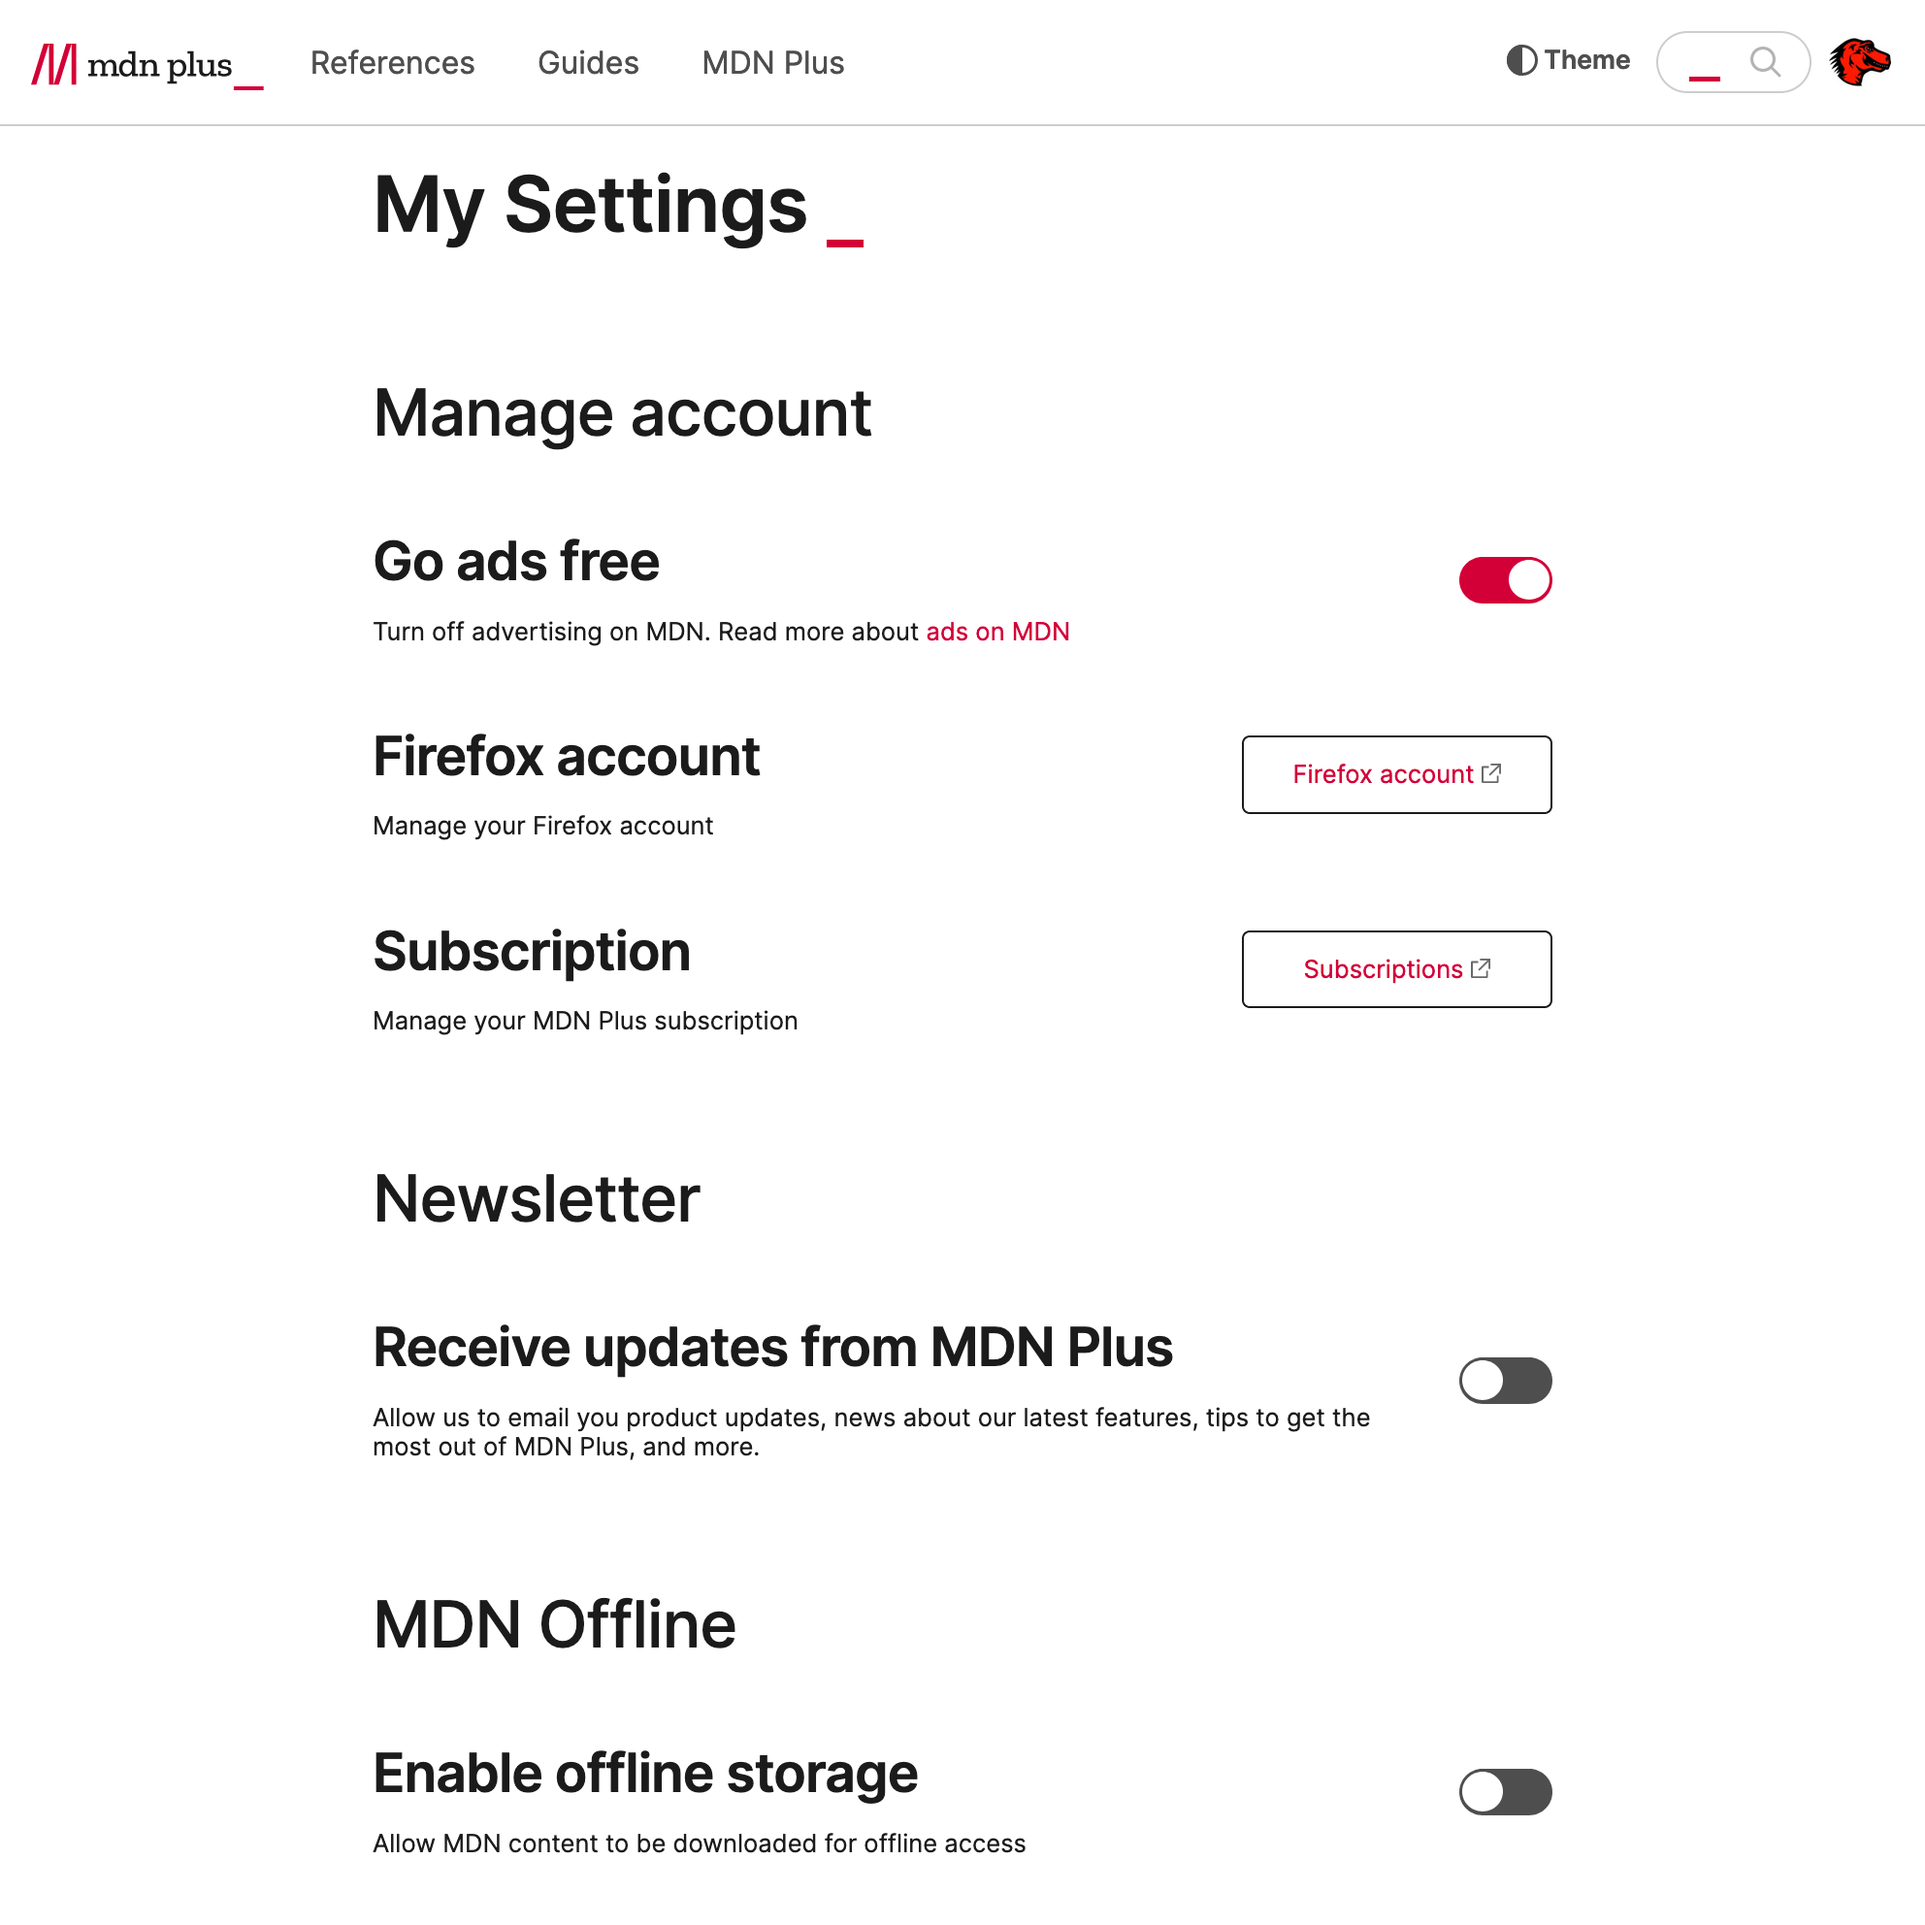
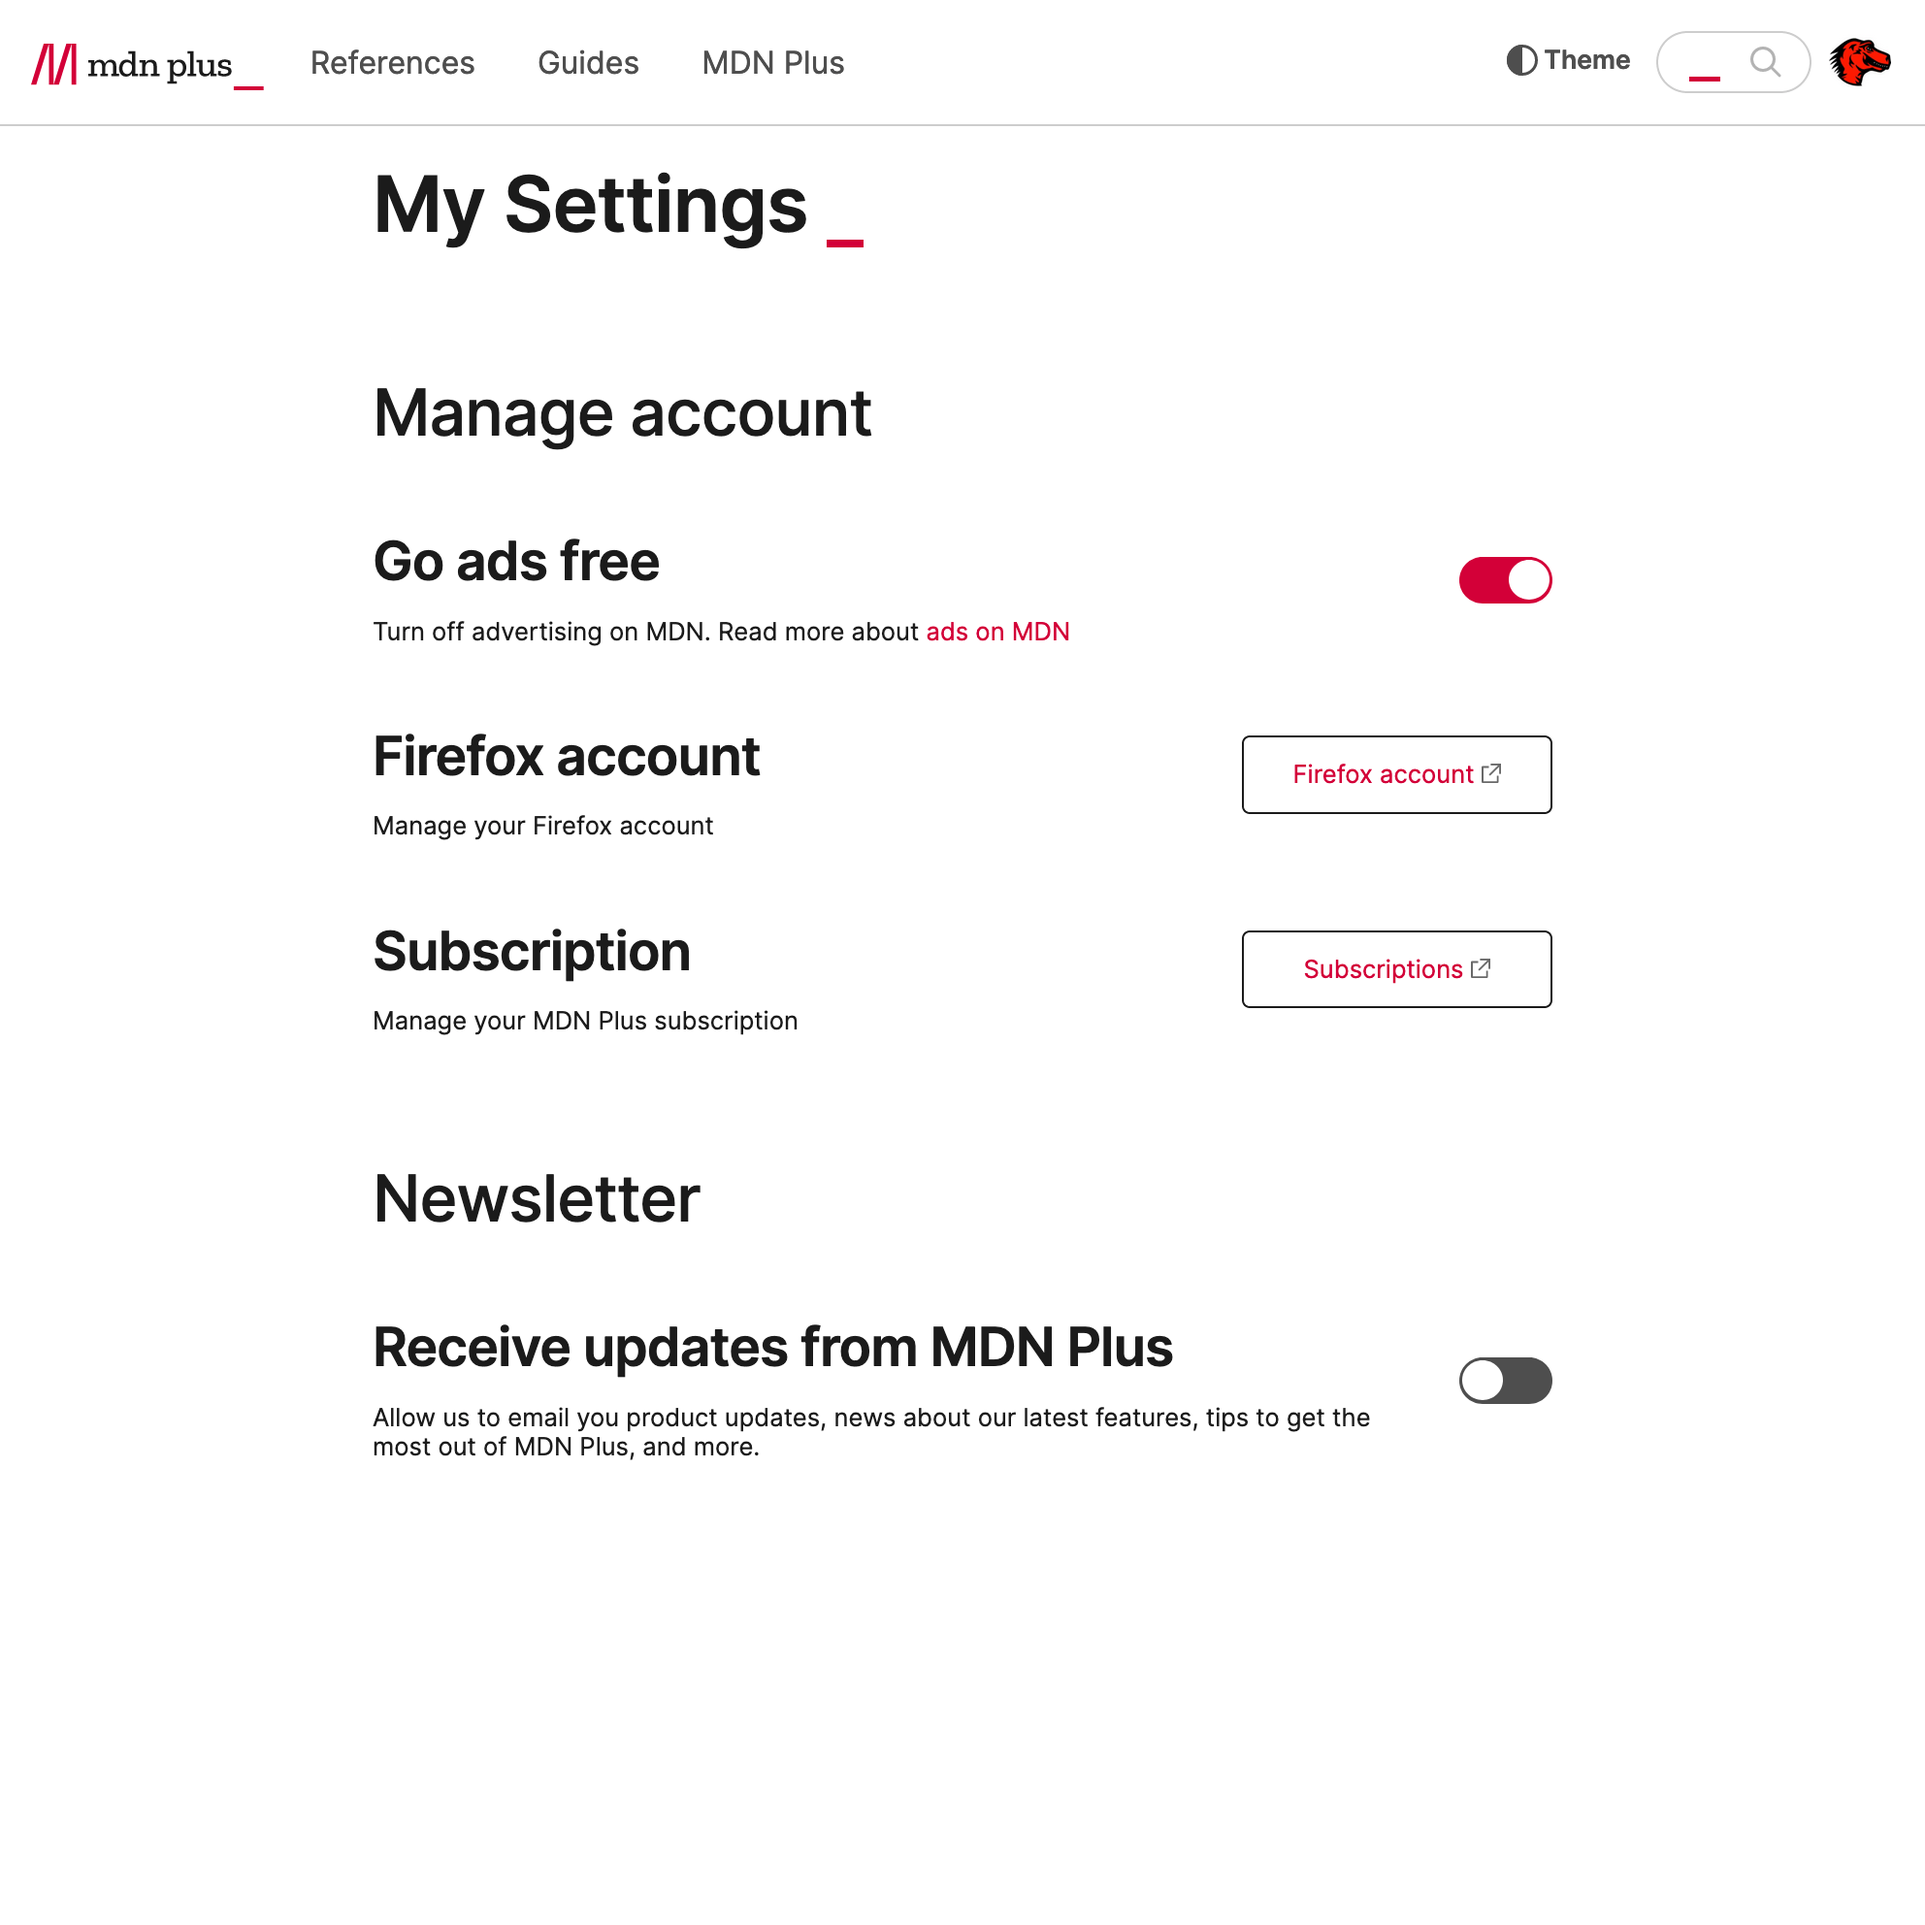
chore(plus): remove deprecated offline from copy and feature list (#13314)
* Remove deprecated offline from copy and feature list

* updated assets

* removed link to offline in sidebar

Changed region(s): [[0.1875, 0.9062, 0.5312, 0.9688], [0.1875, 0.8125, 0.375, 0.875], [0.75, 0.9062, 0.8125, 0.9688]]

diff --git a/client/src/plus/offer-overview/offer-overview-feature/index.tsx b/client/src/plus/offer-overview/offer-overview-feature/index.tsx
@@ -35,8 +35,8 @@ export default function OfferOverviewFeatures() {
           <p>
             Support MDN and enjoy a focused, ad-free experience alongside other
             features such as curated collections, custom web platform updates,
-            offline access, and more. Subscribers to paid tiers of MDN Plus have
-            the option to browse MDN without ads.
+            and more. Subscribers to paid tiers of MDN Plus have the option to
+            browse MDN without ads.
           </p>
           <Button href="#subscribe">Get started →</Button>
         </section>

diff --git a/client/src/plus/plus-docs/index.tsx b/client/src/plus/plus-docs/index.tsx
@@ -31,10 +31,6 @@ function PlusDocsNav() {
           slug: "plus/docs/features/collections",
           title: "Collections",
         },
-        {
-          slug: "plus/docs/features/offline",
-          title: "MDN Offline",
-        },
         ...(!userData?.isAuthenticated
           ? [
               {

diff --git a/client/src/plus/offer-overview/offer-overview-subscribe/index.tsx b/client/src/plus/offer-overview/offer-overview-subscribe/index.tsx
@@ -82,7 +82,6 @@ const PLUS_FEATURES = [
   ["afree", "Ads free"],
   ["updates", "Filter and sort updates"],
   ["collections", "Collections of articles"],
-  ["offline", "MDN Offline"],
   ["ai-help", "AI Help"],
 ];
 
